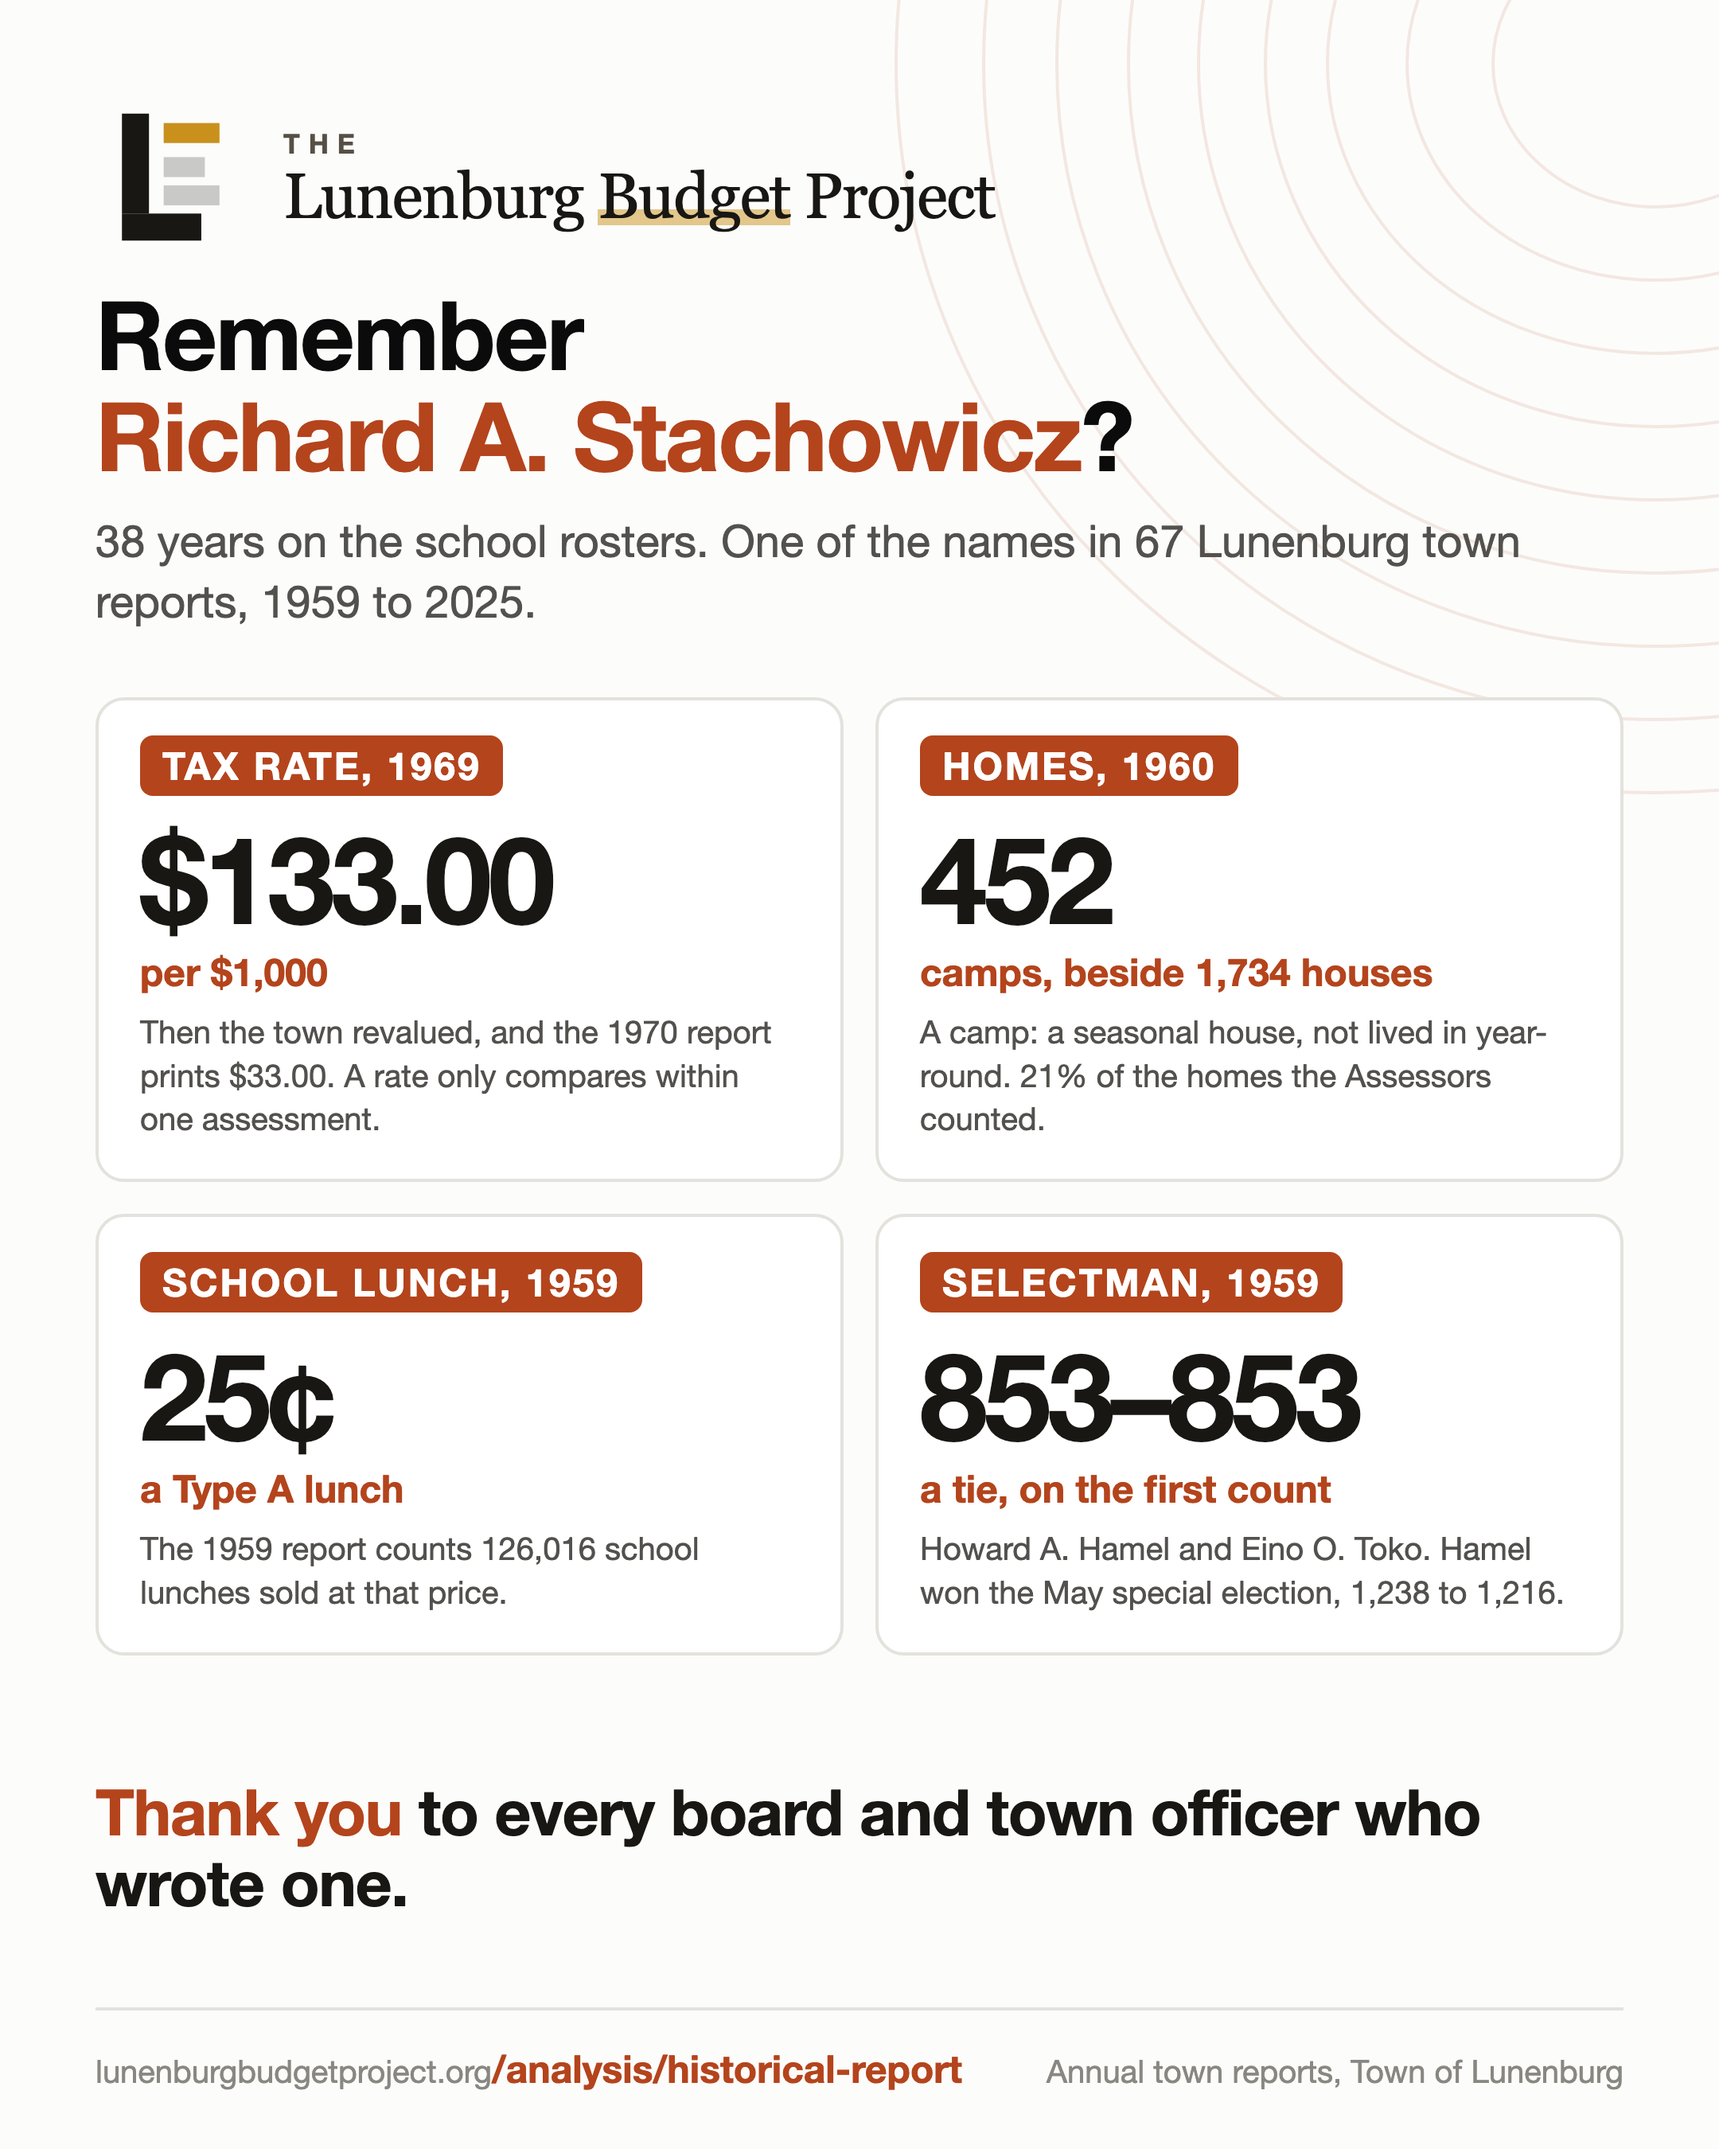
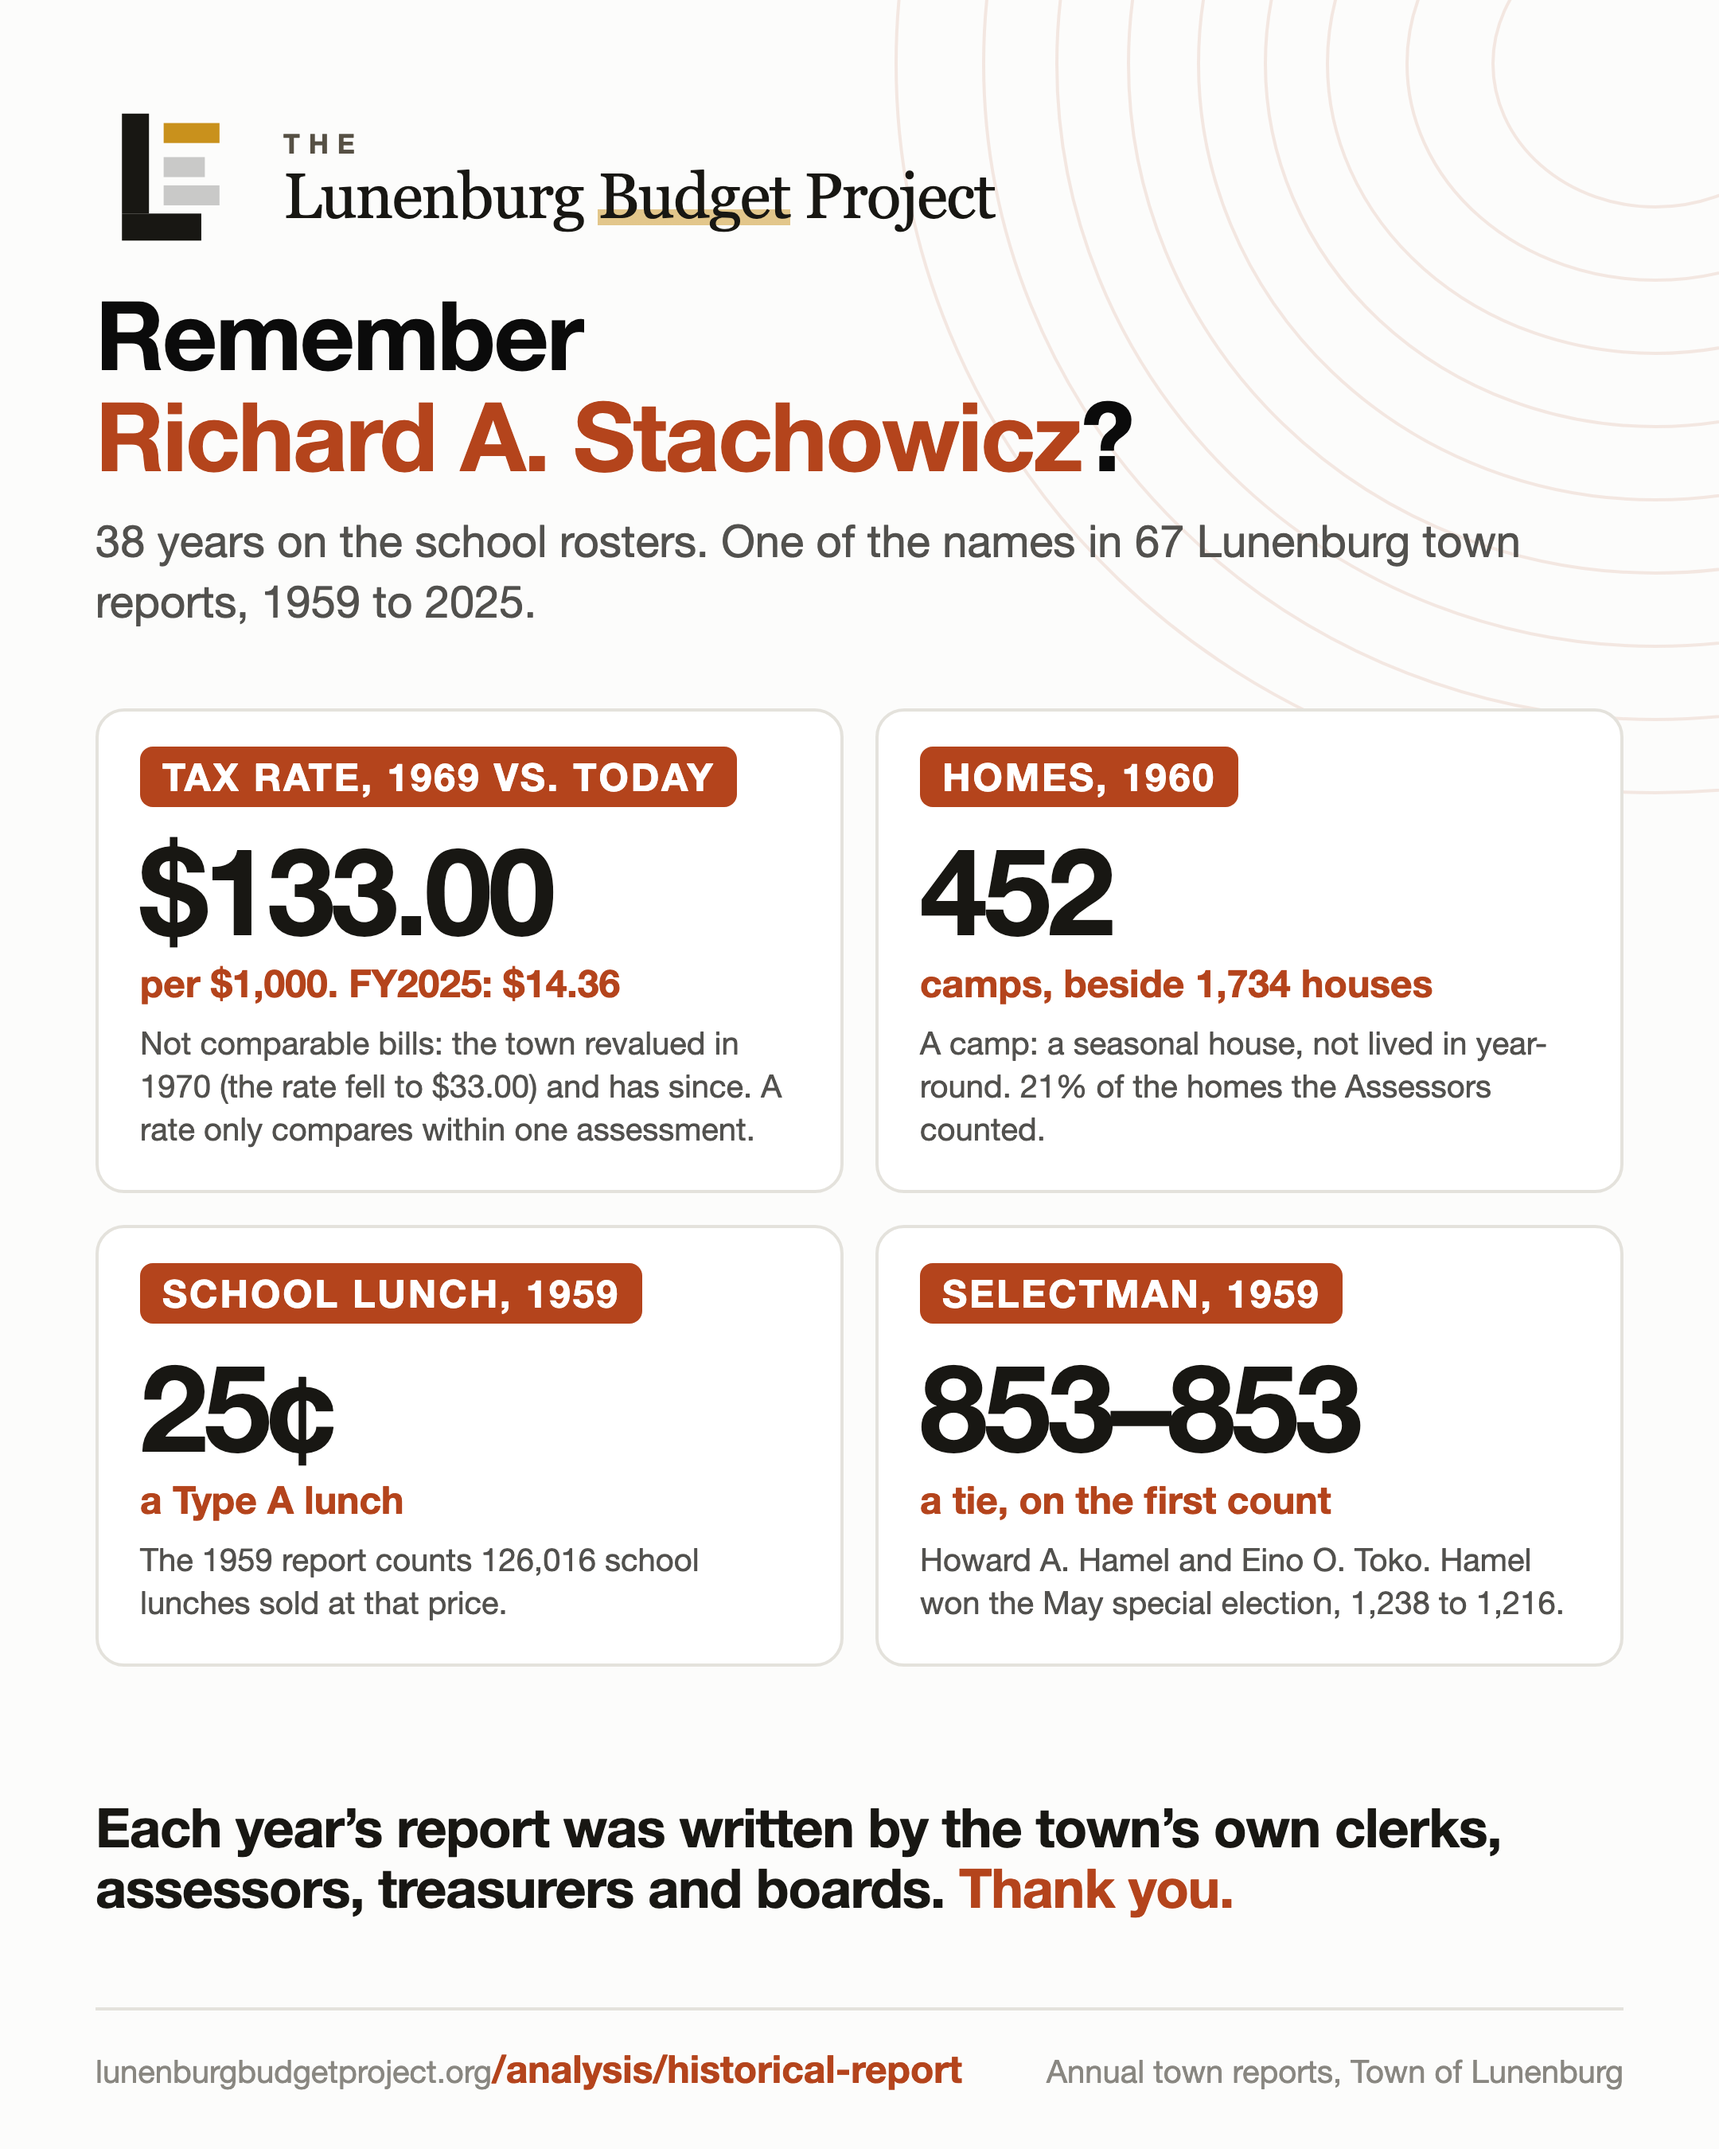
Historical report post: 1969 tax rate beside today's, with why they do not compare; thank-you line says who wrote the reports
Claude-Session: https://claude.ai/code/session_012N2Qx5zhbwHuRfLN411JKu

diff --git a/social/posts/2026-10-30-historical-report/image.html b/social/posts/2026-10-30-historical-report/image.html
@@ -8,7 +8,7 @@ body{width:1080px;height:1350px;background:#fcfcfb;color:#0b0b0b;position:relati
 .motif{position:absolute;left:0;top:0;z-index:0}
 .frame{position:relative;z-index:1;height:100%;display:flex;flex-direction:column}
 .k{font-weight:700;font-size:22px;letter-spacing:.14em;color:#b4441c}
-.concl{font-weight:800;font-size:40px;line-height:1.12;letter-spacing:-.015em;margin:34px 0 56px;color:#181713}
+.concl{font-weight:800;font-size:34px;line-height:1.12;letter-spacing:-.015em;margin:34px 0 56px;color:#181713}
 .concl em{font-style:normal;color:#b4441c}
 .logo{display:flex;align-items:center;gap:22px}
 .logo .lm{width:96px;height:96px;flex:none}
@@ -89,7 +89,7 @@ h1 em{font-style:normal;color:#b4441c}
 <div class="logo"><svg class="lm" viewBox="4 3 26 26"><rect x="8.5" y="5" width="4.6" height="17" fill="#181713"/><rect x="8.5" y="22" width="13.5" height="4.6" fill="#181713"/><rect x="15.6" y="6.6" width="9.5" height="3.4" fill="#c9911c"/><rect x="15.6" y="12.4" width="7" height="3.4" fill="#181713" opacity=".22"/><rect x="15.6" y="17.2" width="9.5" height="3.4" fill="#181713" opacity=".22"/></svg><div class="lw"><div class="lt">The</div><div class="ln" style="font-family:Georgia, &quot;Iowan Old Style&quot;, &quot;Times New Roman&quot;, serif">Lunenburg <span class="lhl">Budget</span> Project</div></div></div>
 <h1>Remember <em style="white-space:nowrap">Richard A. Stachowicz</em>?</h1>
 <p class="sub">38 years on the school rosters. One of the names in 67 Lunenburg town reports, 1959 to 2025.</p>
-<div class="body"><div class="grid"><div class="g"><div class="gs">Tax rate, 1969</div><div class="gv">$133.00</div><div class="gu">per $1,000</div><div class="gt">Then the town revalued, and the 1970 report prints $33.00. A rate only compares within one assessment.</div></div><div class="g"><div class="gs">Homes, 1960</div><div class="gv">452</div><div class="gu">camps, beside 1,734 houses</div><div class="gt">A camp: a seasonal house, not lived in year-round. 21% of the homes the Assessors counted.</div></div><div class="g"><div class="gs">School lunch, 1959</div><div class="gv">25¢</div><div class="gu">a Type A lunch</div><div class="gt">The 1959 report counts 126,016 school lunches sold at that price.</div></div><div class="g"><div class="gs">Selectman, 1959</div><div class="gv">853–853</div><div class="gu">a tie, on the first count</div><div class="gt">Howard A. Hamel and Eino O. Toko. Hamel won the May special election, 1,238 to 1,216.</div></div></div></div>
-<p class="concl"><em>Thank you</em> to every board and town officer who wrote one.</p>
+<div class="body"><div class="grid"><div class="g"><div class="gs">Tax rate, 1969 vs. today</div><div class="gv">$133.00</div><div class="gu">per $1,000. FY2025: $14.36</div><div class="gt">Not comparable bills: the town revalued in 1970 (the rate fell to $33.00) and has since. A rate only compares within one assessment.</div></div><div class="g"><div class="gs">Homes, 1960</div><div class="gv">452</div><div class="gu">camps, beside 1,734 houses</div><div class="gt">A camp: a seasonal house, not lived in year-round. 21% of the homes the Assessors counted.</div></div><div class="g"><div class="gs">School lunch, 1959</div><div class="gv">25¢</div><div class="gu">a Type A lunch</div><div class="gt">The 1959 report counts 126,016 school lunches sold at that price.</div></div><div class="g"><div class="gs">Selectman, 1959</div><div class="gv">853–853</div><div class="gu">a tie, on the first count</div><div class="gt">Howard A. Hamel and Eino O. Toko. Hamel won the May special election, 1,238 to 1,216.</div></div></div></div>
+<p class="concl">Each year’s report was written by the town’s own clerks, assessors, treasurers and boards. <em>Thank you.</em></p>
 <div class="foot"><span>lunenburgbudgetproject.org<b>/analysis/historical-report</b></span><span>Annual town reports, Town of Lunenburg</span></div>
 </div></body></html>
